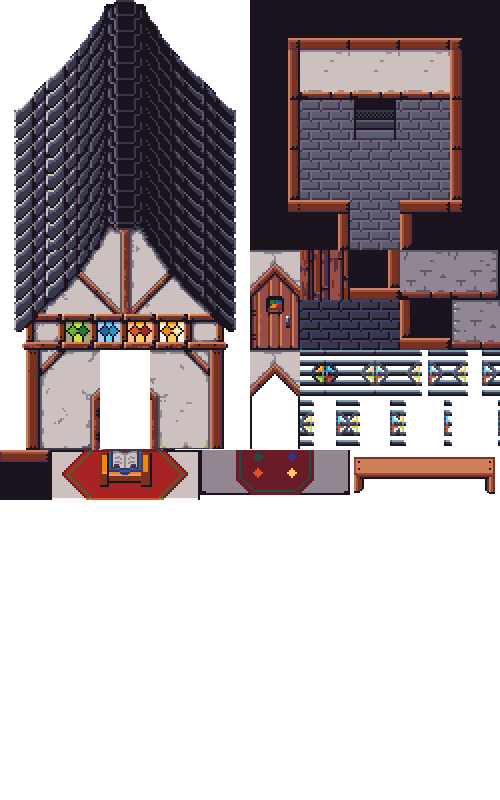
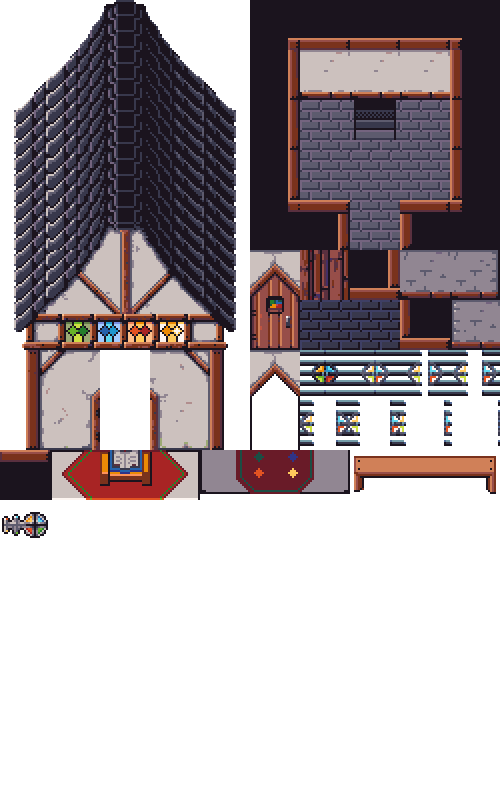
add temple gate key, rig to get key from quest and require key to open gate

diff --git a/js/gameObjects.js b/js/gameObjects.js
@@ -122,7 +122,15 @@ class gameObjectClass extends characterClass {
         switch (this.kind) {
         case "door":
             if (this.state !== Animator.open) {
-                if (!this.locked || character.keysHeld > 0) {
+                if (this.tag === "TEMPLE_GATE") {
+                    if (character.inventory.includes("TEMPLE_KEY")) {
+                        this.state = Animator.open;
+                        this.wantAction = undefined;
+                        this.locked = false;
+                        this.active = false;
+                        doorOpenning.play();
+                    }
+                } else if (!this.locked || character.keysHeld > 0) {
                     if (this.locked) {
                         character.keysHeld--; // one less key
                         document.getElementById("debugText").innerHTML = "Keys: " + character.keysHeld;

diff --git a/js/daggerAssets.js b/js/daggerAssets.js
@@ -1615,6 +1615,8 @@ const daggerAssets = [
         {tag: "CHURCH_BENCH_A",          id: 627, cls: "Sprite", width: 50, height: 50, xoffset: 50*7, yoffset: 50*9, tileset: true },
         {tag: "CHURCH_BENCH_B",          id: 628, cls: "Sprite", width: 50, height: 50, xoffset: 50*8, yoffset: 50*9, tileset: true },
         {tag: "CHURCH_BENCH_C",          id: 629, cls: "Sprite", width: 50, height: 50, xoffset: 50*9, yoffset: 50*9, tileset: true },
+        // -- row 11
+        {tag: "TEMPLE_KEY",                       cls: "Sprite", width: 50, height: 50, xoffset: 50*0, yoffset: 50*10 },
 
 
     ]},

diff --git a/js/daggerQuests.js b/js/daggerQuests.js
@@ -5,6 +5,7 @@ const daggerQuests = {
         text: "You awaken from a restless sleep with haunted visions of your town in ruins, your friends murdered, and your own death.  Seek out Elder Clarice.  She may be able to help sort out your dreams and guide you.",
         rewards: [
             { tag: "GOLD_COINS_TWO_DROP", amt: 5 },
+            { tag: "TEMPLE_KEY", amt: 1, misc: true },
         ],
         objectives: [
             {

diff --git a/js/Warrior.js b/js/Warrior.js
@@ -171,7 +171,7 @@ class warriorClass extends characterClass {
 
     gatherLoot(loot) {
         // if loot is a weapon...
-        if (loot.mainHand || loot.offHand) {
+        if (loot.mainHand || loot.offHand || loot.misc) {
             console.log(" ----- INVENTORY ADD");
             this.inventory.add(loot);
         } else {
